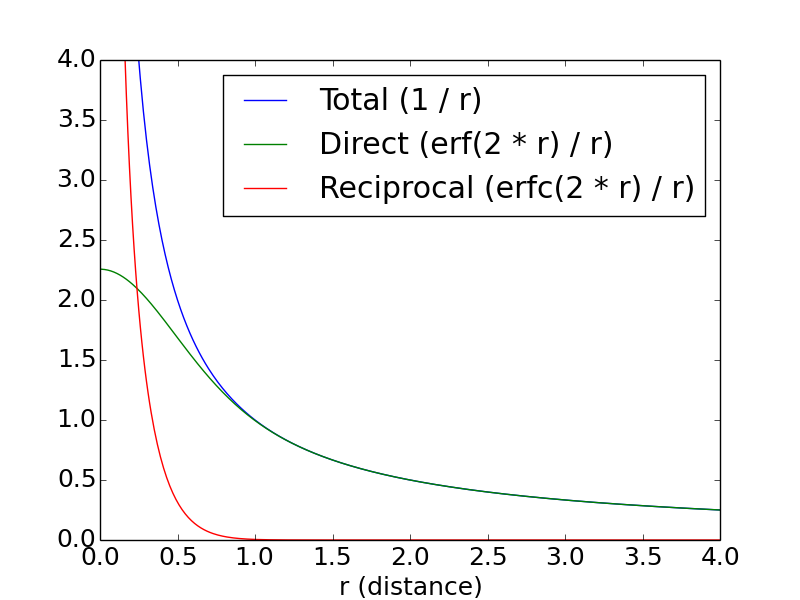
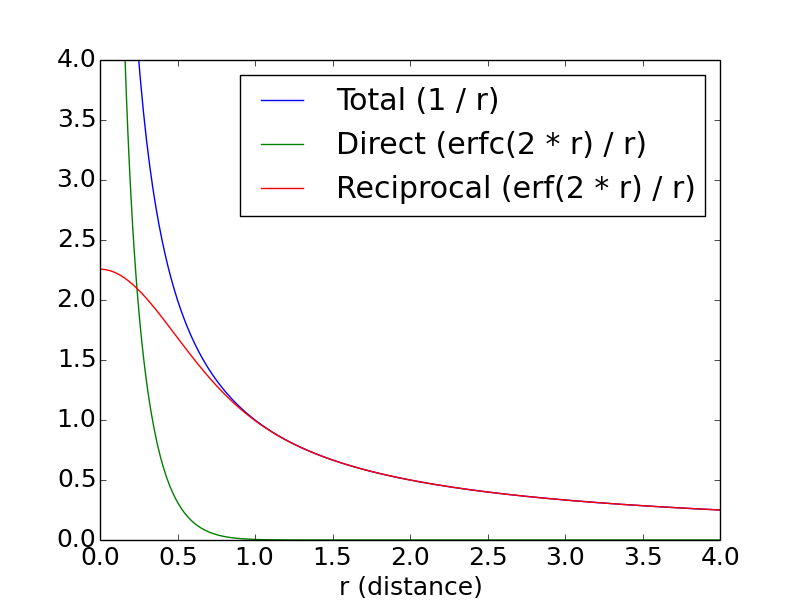
.

diff --git a/data/thesis/presentation.tex b/data/thesis/presentation.tex
@@ -12,7 +12,7 @@
 \DeclareMathOperator\erfc{erfc}
 
 
-\author[Aleksei Iupinov]{Aleksei Iupinov\\{\footnotesize Supervised by: Berk Hess}}
+\author[Aleksei Iupinov]{Aleksei Iupinov \\{\footnotesize Supervised by: Berk Hess}}
 %\author{Aleksei Iupinov}
 \title{Master thesis project: \\Particle mesh Ewald on a GPU}
 \usepackage{subcaption}
@@ -30,18 +30,35 @@
 \titlepage
 \end{frame}
 
-\begin{frame}
-\tableofcontents
-\end{frame}
+%\begin{frame}
+%\tableofcontents
+%\end{frame}
 
 \section{Introduction}
-\begin{frame}{Molecular dynamics simulation performance}
+\begin{frame}{Molecular dynamics simulations' performance}
 \begin{itemize}
 \item modelling large organic molecules (hundreds of thousands atoms)
 \item scaling performance is important (time steps of $10^{-15}$ seconds, processes of $10^{-6}$ -- $10^{-3}$ seconds) 
-\item the balance shifting towards GPU/accelerator hardware (core speed limited, increasing number of cores instead)
+\item the computational balance shifting towards GPU/accelerator hardware (single core speed limited $\implies$ increasing number of cores instead)
 \item most computational time taken by electrostatic interactions
 \item PME (particle mesh Ewald) used for computing long-range component of electrostatics
+\end{itemize}
+\end{frame}
+
+\begin{frame}{GROMACS}
+\begin{itemize}
+\item open source MD software GROMACS 5.1
+\item direct non-bonded particle pair interactions computed either on CPU or GPU (CUDA/OpenCL) 
+\item PME only implemented for CPU
+\item potential benefits of PME on GPU:
+\begin{itemize}
+\item more performance
+\item more flexibility 
+\item most computation can be offloaded onto GPUs
+\item avoiding CPU bottleneck on machines with lots of GPU power  
+\end{itemize}
+\item the task is an implementation of  PME for a single GPU
+%mention cutoff
 \end{itemize}
 \end{frame}
 
@@ -51,17 +68,17 @@
 \item particles coordinates $\bold{r}_1, \dotsc, \bold{r}_N$ and charges $q_1, \dotsc, q_N$ known, forces $\bold{f}_1, \dotsc, \bold{f}_N$ acting on particles to be computed 
 \item electrostatic potential:
 \[E(\bold{r}_1, \dotsc, \bold{r}_N) = \frac{1}{4 \pi \varepsilon_0}\sum\limits_{i < j}\frac{q_i q_j}{\lvert \bold{r}_i-\bold{r}_j\rvert}\]
-\item forces are derived analytically:
+\item forces to be derived:
 \[\bold{f_i} = -\frac{\partial E}{\partial \bold{r_i}} \]
 \item large $N$ and computational effort $O(N^2) \implies$ slow computation!
 \end{itemize}
 \end{frame}
 
 \section{Method}
-\begin{frame}{Ewald sum}
+\begin{frame}{Ewald summation}
 \begin{itemize}
 
-\item interaction dependency is $\frac{1}{\lvert \bold{r}\rvert }$
+\item the dependency on $\bold{r}$ is $\frac{1}{\lvert \bold{r}\rvert }$ -- no convergence, no cut-off
 \item Ewald sum: decomposition into direct and reciprocal space components, based on Gaussian error function
 \item the direct space component converges within a certain cut-off
 \item the reciprocal component converges in the Fourier space
@@ -129,30 +146,15 @@ E_{rec}=\frac{1}{2\pi V}\sum\limits_{\bold{m} \in \{\mathbb{Z}^3 \setminus {0}\}
 (3 dimensions, $p$ values and $p$ derivatives in each, $p$ typically 4 or 5)
 \item spread the particle charges on a discrete 3D grid ($p^3$ contributions per particle)
 \item perform real-to-complex 3D FFT of the grid
-\item solve for reciprocal energy, transform the grid
+\item calculate the reciprocal energy, transform the grid
 \item perform complex-to-real 3D FFT of the grid
-\item gather the particle forces from the grid ($p^3$ contributions per particle)
+\item gather the particle forces from the grid and reduce ($p^3$ contributions per particle)
 \end{enumerate}
 \end{frame}
 
 %pictures?
 
 \section{Implementation}
-\begin{frame}{Implementation}
-\begin{itemize}
-\item open source MD software GROMACS 5.1
-\item short-range particle pair interactions computed either on CPU or GPU (CUDA/OpenCL) 
-\item PME only implemented for CPU
-\item potential benefits of PME on GPU:
-\begin{itemize}
-\item more performance
-\item more flexibility, possibilities for load balancing 
-\item nearly all computation can be offloaded onto GPUs
-\item avoiding CPU bottleneck on machines with lots of GPU power  
-\end{itemize}
-%mention cutoff
-\end{itemize}
-\end{frame}
 
 \begin{frame}{MD time step in GROMACS}
 \begin{figure}
@@ -182,14 +184,15 @@ E_{rec}=\frac{1}{2\pi V}\sum\limits_{\bold{m} \in \{\mathbb{Z}^3 \setminus {0}\}
 
 \begin{frame}{Spreading the charges}
 \begin{itemize}
-\item a large part of the runtime
+\item a large part of the run time
 \item charges accumulated onto the grid in parallel $\implies$ clashes of atomic 
 addition operations
 \item for PME order $p=4$ each particle affects $4^3 = 64$ cells
 \item a single thread works on one line (4 contributions)
 \item a warp works exactly on 2 particles (16 threads per particle)
 % picture
-\item the grid has an overlap of $p - 1$ cells in each direction, is wrapped afterwards by a separate small kernel 
+\item the grid is meant to be periodic
+\item the implementation grid has an overlap of $p - 1$ cells in each direction, is wrapped afterwards by a separate small kernel (integer division is costly)
 \end{itemize}
 \end{frame}
 
@@ -213,12 +216,12 @@ addition operations
 \end{itemize}
 \end{frame}
 
-\begin{frame}{Gather}
+\begin{frame}{Gathering the forces}
 \begin{itemize}
 \item counterpart of spreading
-\item has to perform reduction in shared memory or registers
+\item the grid is unwrapped before the gather
+\item has to perform force reduction for each particle in shared memory or registers
 \item same layout and scheduling as spreading (4 contributions per thread, 16 threads per particle)
-\item the grid is also unwrapped before the gather
 %\item typically 3 times as fast as spread on newer  
 \end{itemize}
 %layout picture
@@ -234,14 +237,14 @@ addition operations
 \item only interpolation order of 4 has been tried
 %\item works in a single PME/PP process
 %\item or as a single PME process with several PP ranks
-\item load balancing works
+%\item load balancing works
 % more about decomposition
 % more about tuning
 % references?
 \end{itemize}
 \end{frame}
 
-\begin{frame}{Individual kernels performance}
+\begin{frame}{Individual stages performance}
 \begin{itemize}
 \item a water box with number of atoms varying from 960 to 1536000
 \item a high end GPU (NVIDIA GTX TITAN X) 
@@ -256,7 +259,7 @@ addition operations
 
 \begin{frame}{Single process CPU/GPU comparison, 134201 atoms}
 \begin{itemize}
-\item short-range computed on GPU (NVIDIA GTX TITAN X)
+\item non-bonded interactions computed on GPU (NVIDIA GTX TITAN X)
 \item PME computed either on a CPU (Intel Core i7-5960X) or on the same GPU
 % threads varied
 \end{itemize}
@@ -271,7 +274,7 @@ addition operations
 
 \begin{frame}{2 processes (1 PP / 1 PME) CPU/GPU comparison}
 \begin{itemize}
-\item short-range computed on GPU (NVIDIA GTX TITAN X)
+\item non-bonded interactions computed on GPU (NVIDIA GTX TITAN X)
 \item PME computed either on a CPU (Intel Core i7-5960X) or on the second GPU (NVIDIA Quadro M6000)
 \end{itemize}
 \FloatBarrier
@@ -288,7 +291,7 @@ addition operations
 
 \begin{frame}{Conclusion}
 \begin{itemize}
-\item the single GPU implementation provides a foundation for further tuning
+\item the single GPU implementation provides a foundation for further work
 \item supports a separate PME process with direct space decomposed over multiple PP processes, already viable for a machine with several NVIDIA GPUs 
 \item should be easily extensible for scaling over multiple GPUs
 (compatible with the CPU FFT code supporting the Fourier grid decomposition)

diff --git a/data/thesis/cutoff.py b/data/thesis/cutoff.py
@@ -5,7 +5,7 @@ import math
 # Compute the x and y coordinates for points on a sine curve
 x = np.arange(0.01, 5, 0.01)
 y = 1 / x
-beta = 0.7
+beta = 2
 ydir = [math.erfc(beta * i) / i for i in x]
 yrec = [math.erf(beta * i) / i for i in x]
 
